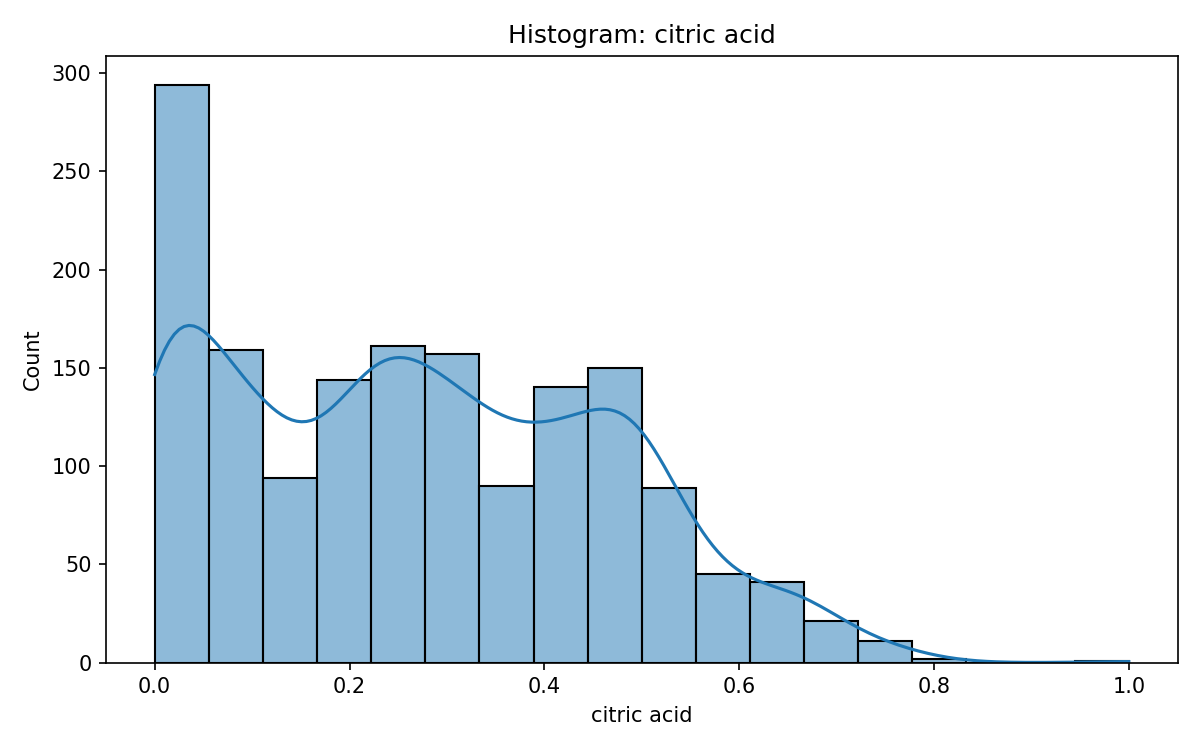
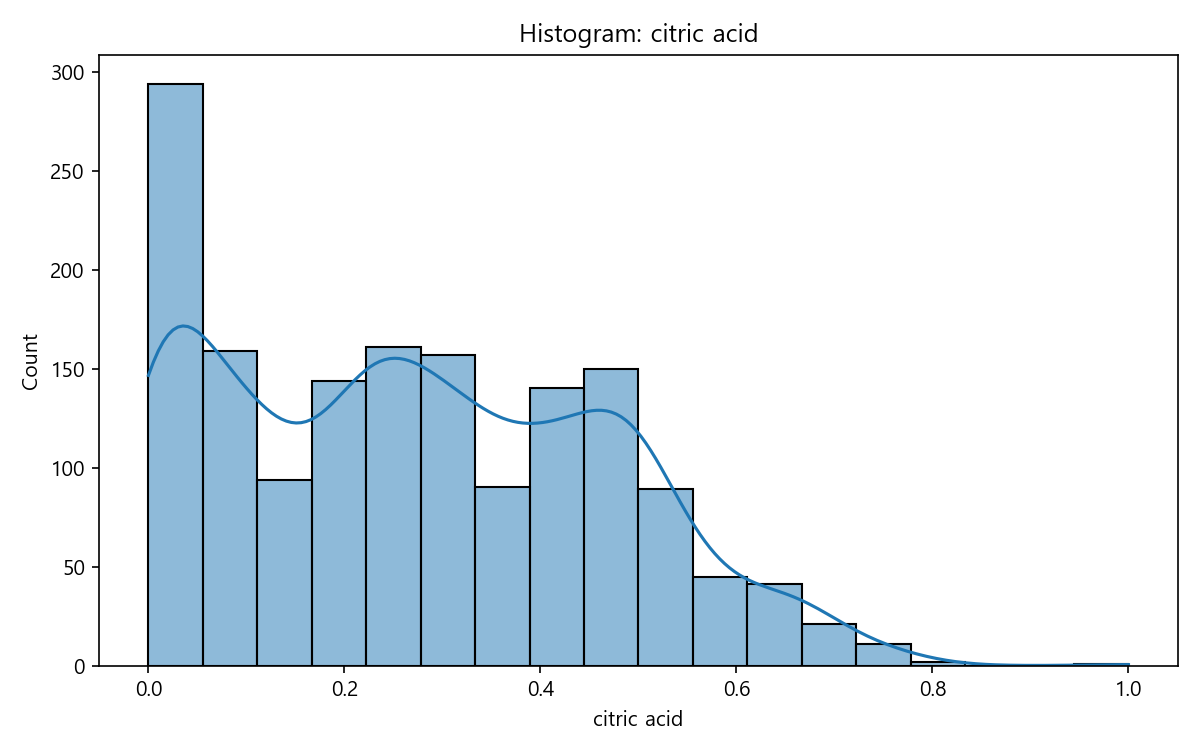
feat: 차트 한글 폰트 설정과 Streamlit Cloud 배포 준비
차트 축 라벨에 원본 컬럼명을 그대로 쓰는데(visualization.py의
set_xlabel) matplotlib 기본 폰트인 DejaVu Sans에는 한글 글리프가 없다.
한글 헤더 CSV를 넣으면 축 라벨이 전부 빈 네모로 나온다. 확인해 보니
배포 환경만의 문제가 아니라 개발용 Windows에서도 이미 발생 중이었고,
컬럼명 두 개짜리 차트에서 글리프 누락 경고가 22건 발생했다.

- configure_chart_fonts()를 추가해 OS별 후보 폰트를 순서대로 탐색한다.
  Windows는 Malgun Gothic, macOS는 AppleGothic, 리눅스는 나눔고딕이
  잡힌다. 찾은 폰트를 font.sans-serif 맨 앞에 끼워 넣어, 해당 폰트에
  없는 글리프는 기존 기본 폰트로 계속 폴백되게 했다.
- 대부분의 한글 폰트에 U+2212 글리프가 없어 축의 음수 표기가 깨지므로
  axes.unicode_minus를 꺼 ASCII 하이픈을 쓰게 했다.
- 배포 이미지에서 apt가 폰트를 설치하기 전에 matplotlib이 폰트 목록을
  캐싱하면 이름 조회로는 찾지 못한다. 이 경우 폰트 파일을 직접
  등록하고 한 번 더 조회하는 폴백을 넣었다.
- packages.txt에 fonts-nanum을 추가했다. Streamlit Community Cloud가
  이 파일을 읽어 apt 패키지를 설치한다.
- docs/DEPLOY.md에 배포 절차와 배포 후 점검 항목, 파일시스템 휘발성
  같은 플랫폼 제약을 정리했다.

테스트 3개를 추가했다. 폰트가 없는 환경에서는 skip 되도록 해서
CI에서도 깨지지 않는다. 한글 컬럼명으로 차트를 그려 글리프 누락
경고가 0건인 것을 확인한다. 전체 30개 통과한다.

동봉된 docs/sample_run 차트도 바뀐 폰트 설정으로 재생성했다.

Changed region(s): [[0.0, 0.0613, 0.9867, 0.9507], [0.4317, 0.0307, 0.6475, 0.092], [0.4933, 0.92, 0.5858, 0.9813]]

diff --git a/app/visualization.py b/app/visualization.py
@@ -5,10 +5,61 @@ from pathlib import Path
 import matplotlib
 import pandas as pd
 import seaborn as sns
+from matplotlib import font_manager
 
 # Force a non-GUI backend so chart generation works in headless CLI environments.
 matplotlib.use("Agg")
 import matplotlib.pyplot as plt
+
+
+# Axis labels are raw column names, so a CJK-capable font must be selected explicitly:
+# matplotlib defaults to DejaVu Sans, which renders Hangul as empty boxes on every OS.
+# Linux deploy targets additionally need the font installed (see packages.txt).
+KOREAN_FONT_CANDIDATES = (
+    "Malgun Gothic",     # Windows
+    "AppleGothic",       # macOS
+    "NanumGothic",       # Linux, via packages.txt
+    "NanumBarunGothic",
+    "Noto Sans CJK KR",
+)
+
+
+def _find_installed_korean_font() -> str | None:
+    available = {font.name for font in font_manager.fontManager.ttflist}
+    return next((name for name in KOREAN_FONT_CANDIDATES if name in available), None)
+
+
+def _register_nanum_font_files() -> None:
+    """Register font files matplotlib missed because its cache predates the install."""
+    for font_path in font_manager.findSystemFonts():
+        if "nanum" in Path(font_path).name.lower():
+            try:
+                font_manager.fontManager.addfont(font_path)
+            except Exception:
+                continue
+
+
+def configure_chart_fonts() -> str | None:
+    """Select the first available Korean font. Returns its name, or None if none is installed."""
+    # A minus sign has no glyph in most Korean fonts, so render it with the ASCII hyphen.
+    plt.rcParams["axes.unicode_minus"] = False
+
+    selected = _find_installed_korean_font()
+    if selected is None:
+        # On a deploy image, apt may install the font after matplotlib cached its font
+        # list, which leaves the font on disk but invisible to the name lookup above.
+        _register_nanum_font_files()
+        selected = _find_installed_korean_font()
+
+    if selected is not None:
+        # Prepend rather than replace the family, so glyphs the Korean font lacks
+        # still fall back to matplotlib's bundled default.
+        plt.rcParams["font.family"] = "sans-serif"
+        plt.rcParams["font.sans-serif"] = [selected, *plt.rcParams["font.sans-serif"]]
+    return selected
+
+
+SELECTED_CHART_FONT = configure_chart_fonts()
 
 
 def generate_histograms(df: pd.DataFrame, output_dir: str | Path) -> list[Path]:

diff --git a/tests/test_visualization.py b/tests/test_visualization.py
@@ -1,0 +1,48 @@
+from __future__ import annotations
+
+import unittest
+import warnings
+from pathlib import Path
+from tempfile import TemporaryDirectory
+
+import matplotlib.pyplot as plt
+import pandas as pd
+
+from app.visualization import (
+    KOREAN_FONT_CANDIDATES,
+    configure_chart_fonts,
+    generate_boxplots,
+    generate_histograms,
+)
+
+
+class ChartFontTests(unittest.TestCase):
+    def test_configure_chart_fonts_disables_unicode_minus(self) -> None:
+        # Korean fonts have no glyph for U+2212, so the ASCII hyphen must be used instead.
+        configure_chart_fonts()
+
+        self.assertFalse(plt.rcParams["axes.unicode_minus"])
+
+    def test_configure_chart_fonts_keeps_default_family_as_fallback(self) -> None:
+        selected = configure_chart_fonts()
+        if selected is None:
+            self.skipTest("이 환경에는 후보 한글 폰트가 설치되어 있지 않습니다.")
+
+        self.assertIn(selected, KOREAN_FONT_CANDIDATES)
+        self.assertEqual(selected, plt.rcParams["font.sans-serif"][0])
+        self.assertIn("DejaVu Sans", plt.rcParams["font.sans-serif"])
+
+    def test_korean_column_names_render_without_missing_glyphs(self) -> None:
+        if configure_chart_fonts() is None:
+            self.skipTest("이 환경에는 후보 한글 폰트가 설치되어 있지 않습니다.")
+
+        df = pd.DataFrame({"매출액": [100, 250, -180, 320], "방문 횟수": [1, 5, 3, 7]})
+
+        with TemporaryDirectory() as tmpdir, warnings.catch_warnings(record=True) as caught:
+            warnings.simplefilter("always")
+            generate_histograms(df, Path(tmpdir))
+            generate_boxplots(df, Path(tmpdir))
+
+        missing_glyphs = [record for record in caught if "missing from font" in str(record.message)]
+
+        self.assertEqual(missing_glyphs, [], "한글 컬럼명이 차트에서 글리프 누락으로 깨졌습니다.")

diff --git a/docs/DEPLOY.md b/docs/DEPLOY.md
@@ -1,0 +1,57 @@
+# 배포 가이드 — Streamlit Community Cloud
+
+이 저장소는 Streamlit Community Cloud에 그대로 올라가도록 준비되어 있습니다.
+무료이고, 공개 GitHub 저장소면 별도 설정 없이 배포됩니다.
+
+## 준비 상태
+
+| 요건 | 상태 |
+|:---|:---|
+| 공개 GitHub 저장소 | `DandiHaza/statautolab` |
+| 진입점 `streamlit_app.py` (저장소 루트) | 있음 — Community Cloud 기본값과 이름이 같아 따로 지정할 필요가 없습니다 |
+| `requirements.txt` (pip 패키지) | 있음 |
+| `packages.txt` (apt 패키지) | 있음 — 차트 한글 표시를 위한 `fonts-nanum` |
+| headless 렌더링 | `app/visualization.py`에서 `matplotlib.use("Agg")` 설정 |
+| 절대경로 의존 | 없음 (전부 상대경로) |
+
+## 배포 절차
+
+1. [share.streamlit.io](https://share.streamlit.io) 접속 후 **GitHub 계정으로 로그인**합니다.
+   저장소 읽기 권한을 요청하며, 이 단계는 본인 계정으로 직접 진행해야 합니다.
+2. **Create app** → **Deploy a public app from GitHub**를 선택합니다.
+3. 아래 값을 입력합니다.
+   - Repository: `DandiHaza/statautolab`
+   - Branch: `main`
+   - Main file path: `streamlit_app.py`
+4. **Advanced settings**에서 Python 버전을 **3.12**로 맞춥니다.
+   (로컬 개발 환경과 동일한 버전입니다.)
+5. **Deploy**를 누르면 몇 분 안에 `https://<앱이름>.streamlit.app` 형태의 주소가 발급됩니다.
+
+## 배포 후 확인할 것
+
+- [ ] CSV 업로드 → 데이터 미리보기까지 진행되는지
+- [ ] **한글 컬럼명이 들어간 CSV**를 올려 차트 축 라벨이 □□□로 깨지지 않는지
+      (`packages.txt`의 나눔폰트가 제대로 잡혔는지 확인하는 단계입니다)
+- [ ] 타깃을 지정해 분석을 실행하고 결과 파일이 다운로드되는지
+- [ ] 회귀 대시보드의 OLS 요약이 표시되는지 (statsmodels 설치 확인)
+
+## 알아둘 제약
+
+**파일시스템이 휘발성입니다.** 업로드 파일(`.streamlit_uploads/`)과 분석 결과(`outputs/`)는
+컨테이너 재시작 시 사라집니다. 사용자가 결과를 남기려면 화면의 다운로드 버튼을 써야 합니다.
+데모 용도로는 문제가 없지만, 결과를 영구 보관하려면 외부 스토리지 연동이 필요합니다.
+
+**비활동 시 잠자기 모드로 전환됩니다.** 일정 기간 접속이 없으면 앱이 중지되고,
+다음 접속자가 깨우는 동안 수십 초가 걸립니다. 포트폴리오 링크로 공유할 때 참고하세요.
+
+**`requirements.txt`에 `pytest`가 포함되어 있습니다.** 실행에는 불필요한 테스트 의존성이라
+배포 이미지가 조금 커집니다. 신경 쓰인다면 테스트 의존성을 별도 파일로 분리하면 되지만,
+동작에는 영향이 없습니다.
+
+## 배포한 뒤
+
+발급받은 URL을 README 상단에 추가하면 됩니다. 배지 형태로 넣으려면:
+
+```markdown
+[![Live Demo](https://img.shields.io/badge/Live%20Demo-statautolab-FF4B4B?logo=streamlit&logoColor=white)](https://<발급받은주소>.streamlit.app)
+```
